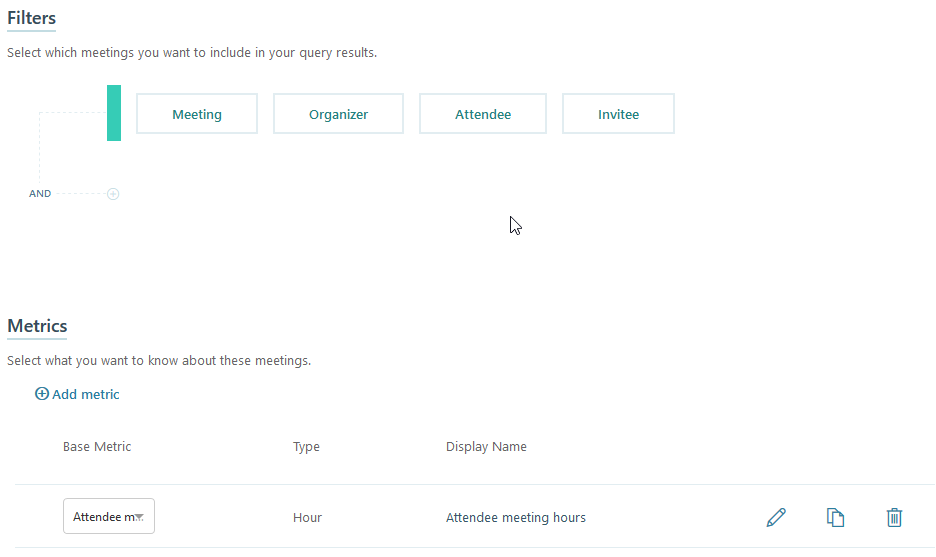
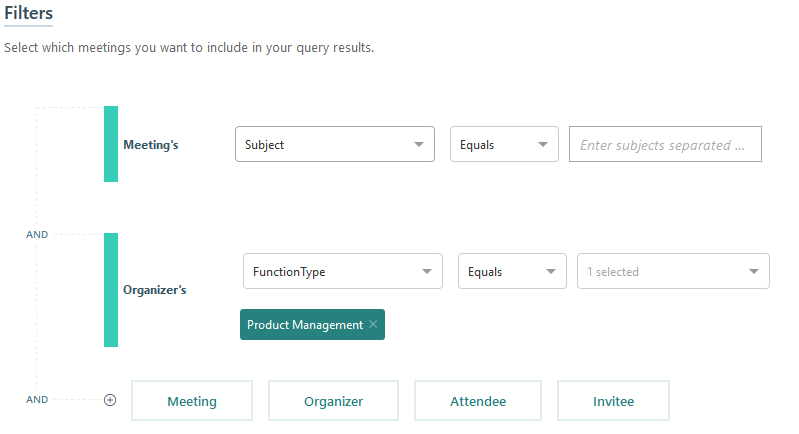
Minor edits to person and meeting queries
Minor edits to person and meeting query topics to update screenshots and update content to explain filters and metrics.

diff --git a/WorkplaceAnalytics/Tutorials/Meeting-queries.md b/WorkplaceAnalytics/Tutorials/Meeting-queries.md
@@ -14,7 +14,7 @@ ms.prod: wpa
 
 # Meeting queries
 
-The Meeting query in Workplace Analytics gives you a list of any meetings that occurred during a specific period, along with their attributes.
+The Meeting query in Workplace Analytics gives you a list of all meetings that occurred during a specific period, along with their attributes.
 
 ## How to choose between a Meeting or Person query
 
@@ -32,26 +32,28 @@ Use a person query when you want to understand the relationship between a person
 
 ## Create a meeting query
 
-Setting up a meeting query is simple.
+Setting up a meeting query is simple. Select whether you want the metrics for each meeting summarized by day, week, or month, and the time period you’d like to analyze.
 
-Select whether you want the metrics for each meeting summarized by day, week or month, and the time period you’d like to analyze.
-
-If you want to exclude meetings from the calculations using custom criteria, you can select your custom rule set – otherwise, use the default.
+If you want to exclude meetings from the calculations by using custom criteria, you can select your custom rule set or simply use the default.
 
  ![Create meeting query](../Images/WpA/Tutorials/create-meeting-query1.png)
 
-By running this query with no exclusions, you will get a helpful output file that can help you determine the right criteria to separate work-related activities from other calendar items.
+By running this query with no exclusions, you will get an output file that can help you determine the right criteria to separate work-related activities from other calendar items.
 
  ![Meeting query no exclusions](../Images/WpA/Tutorials/meeting-no-exclusions.png)
 
-## Add filters and metrics
+## Add filters
 
-You can add a filter to limit the list of meetings included in the output file. For example, the **Meeting** filter will limit the query based on the size, duration, and other attributes related to the meeting.
+You can add a filter to limit the list of meetings included in the output file. For example, the Meeting filter limits the query based on the size, duration, or other attributes related to meetings.
 
-The other filters will limit the query based on the organizational attributes of the different meeting participants.
+You can also limit the query based on organizer, attendee, and invitee attributes for meetings.
 
-You can also add a base metric to customize what additional meeting data to include in the output file. For example, select the **Attendee meeting hours** metric to include the total number of adjusted meeting hours for all attendees.
+![Meeting query filter](../Images/WpA/Tutorials/meeting-filter.png)
 
-![Meeting query filters](../Images/WpA/Tutorials/meeting-filter.png)
+## Add metrics
+
+You can add a base metric for additional custom meeting data to include in the output file. For example, select the Attendees metric to include the total number of people that attended meetings. And if you select a filter for the metric, you can add a column for the total number of people from the engineering group that attended meetings.
+
+![Meeting query metric](../Images/WpA/Tutorials/meeting-metric.png)
 
 To get more details on adding metric filters, see [Customize a metric](../Tutorials/customize-a-metric.md).

diff --git a/WorkplaceAnalytics/Tutorials/Person-queries.md b/WorkplaceAnalytics/Tutorials/Person-queries.md
@@ -5,7 +5,7 @@
 title: Person queries in Workplace Analytics 
 description: Describes how to use Person queries in Workplace Analytics to analyze the collaboration of individuals in your organization, from the point of view of each individual.     
 author: madehmer
-ms.author: rodonahu
+ms.author: madehmer
 ms.date: 7/16/2018
 ms.topic: get-started-article
 localization_priority: normal 
@@ -21,7 +21,7 @@ This creates a lot of flexibility in analyzing data. For example, you can learn:
 * How specific subgroups in the organization spend their time?
 * How one aspect of collaboration influences other time-use habits?
 
-![Person query questions](../Images/WpA/Tutorials/Person1.png)
+  ![Person query questions](../Images/WpA/Tutorials/Person1.png)
 
 The person query metrics fall within four broad categories. You can add standard metrics from each category to your query. Depending on the analysis, you can summarize a person’s collaboration metrics by day, week, or month.
 
@@ -54,15 +54,15 @@ It’s simple to set up a person query.
 
 ## Add filters
 
-You can use filters to exclude certain rows from the output file based on the person’s organizational attributes, such as size or duration.
+You can use filters to exclude certain rows from the output file based on the person’s organizational attributes, such as size or function type.
 
-For example, the **Organization** filter can limit the query to those in the R&D and Engineering groups.
+The Organization filter can limit the query to those in the specified groups. For example, the following filter will only list people from the R&D and Engineering groups.
 
 ![Person query filter](../Images/WpA/Tutorials/query-filter.png)
 
 ## Add metrics
 
-You can add metrics to customize your person query data. The options vary based on the type of metric, but can include criteria related to meetings and email.
+You can add metrics to further customize your person query data. The options vary based on the type of metric, but can include criteria related to meetings and email.
 
 Meetings:
 
@@ -82,7 +82,7 @@ For example, you can add a metric to get an email count for each person where at
 
  ![Person query base metric](../Images/WpA/Tutorials/query-base-metric.png)
 
-Under **Display name**, the custom name for this metric _Emails sent to Sales_ will become the column header in the output file.
+You can add a filter to a base metric and edit the display name for the additional filter data. For example the following shows _Emails sent to Sales_, which will list an additional column header in the output file.
 
 ![Person query custom metric](../Images/WpA/Tutorials/query-custom-metric.png)
 
